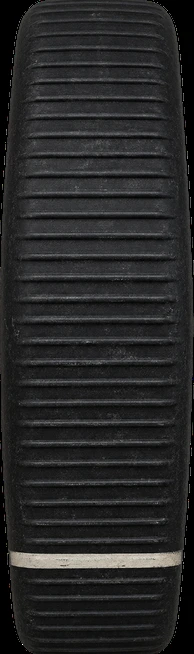
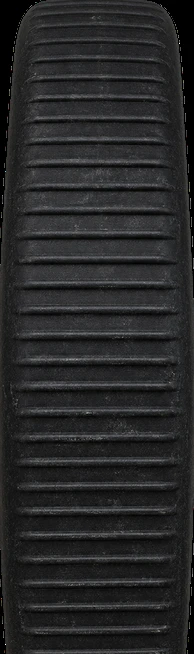
Finish grip contact, smooth wheel rotation, and match gallery aperture dimensions

diff --git a/panel-mosaic-lab/cockpit/throttle-levers.js b/panel-mosaic-lab/cockpit/throttle-levers.js
@@ -3,7 +3,7 @@
 'use strict';
 const doc=win.document;
 const STOPS=[0,25,50,75,100], NAMES=['idle','quarter','mid','three-quarter','full'];
-const CENTER=(322+437)/2, SEAM=2;
+const CENTER=(322+437)/2, SEAM=-4;
 const FULL=184, IDLE=652;
 const WHITE_WIDTH=[137,135,127,117,108];
 const positions={1:0,2:0}, controls=new Map();
@@ -43,7 +43,9 @@ function paint(engine){
  box(c.toga,buttonX-btnSize*.78,buttonY-btnSize*.78,btnSize*1.56,btnSize*1.56);
  c.toga.classList.toggle('show-recess',k>=2);
  // The grip hit area travels with the handgrip, clear of the opposite lever.
- box(c.hit,gripX-WHITE_WIDTH[k]/2,gripY-24,WHITE_WIDTH[k],48);
+ const hitWidth=WHITE_WIDTH[k]+SEAM/2;
+ const hitLeft=engine===1?CENTER-hitWidth:CENTER;
+ box(c.hit,hitLeft,gripY-24,hitWidth,48);
  c.hit.dataset.position=String(pct);c.hit.setAttribute('aria-valuenow',String(pct));
  c.hit.setAttribute('aria-valuetext',pct+' percent');
  if(c.select)c.select.value=STOPS.includes(pct)?String(pct):'';
@@ -127,5 +129,5 @@ win.addEventListener('b737:cockpit-mounted',mount);
 win.addEventListener('load',mount,{once:true});queueMicrotask(mount);
 for(const ms of [500,1800,5000])setTimeout(mount,ms);
 win.B737ThrottlePositions=Object.freeze({get:engine=>positions[engine],set:(engine,pct)=>apply(engine,Number(pct),'user'),
- mounted:()=>ready,positions:STOPS,geometry:()=>({centers:{1:CENTER-(WHITE_WIDTH[4]+SEAM)/2,2:CENTER+(WHITE_WIDTH[4]+SEAM)/2},sourceWidth:800,gripWidthNative:WHITE_WIDTH[4],fullY:FULL,idleY:IDLE,hasAddedTogaFace:false})});
+ mounted:()=>ready,positions:STOPS,geometry:()=>({centers:{1:CENTER-WHITE_WIDTH[4]/2,2:CENTER+WHITE_WIDTH[4]/2},sourceWidth:800,gripWidthNative:WHITE_WIDTH[4]-1,fullY:FULL,idleY:IDLE,hasAddedTogaFace:false})});
 })(window);

diff --git a/panel-mosaic-lab/cockpit/fire-lights-unified.css b/panel-mosaic-lab/cockpit/fire-lights-unified.css
@@ -4,9 +4,10 @@
  box-sizing:border-box;overflow:hidden;z-index:2;border:.24cqw solid #0a0b0b;border-radius:.28cqw;
  box-shadow:inset 0 0 0 .105cqw #626561,inset 0 0 0 .20cqw #272925,0 .12cqw .16cqw #000a;
  background:linear-gradient(165deg,#2e2b24,#171815 36%,#101211);color:#736450;
- font:700 .98cqw/1.03 'Roboto Condensed','Arial Narrow',Arial,sans-serif;
+ font:700 1.24cqw/1.03 'Roboto Condensed','Arial Narrow',Arial,sans-serif;
  text-align:center;letter-spacing:.025em;pointer-events:auto;cursor:pointer;touch-action:none}
 .fire-lamp span{pointer-events:none}
+.fire-lamp:is([data-fire-lamp="L_BOTTLE_DISCHARGED"],[data-fire-lamp="R_BOTTLE_DISCHARGED"]){font-size:1.04cqw}
 .fire-lamp[data-color="red"]{color:#815359}
 .fire-lamp[data-illuminated="true"]{color:#ffd36b;background:radial-gradient(ellipse,#40310f 3%,#221b0e 64%,#13120e);text-shadow:0 0 .3cqw #ffac26}
 .fire-lamp[data-color="red"][data-illuminated="true"]{color:#fff0e5;background:radial-gradient(ellipse,#b22624 5%,#5a1419 74%,#241116);text-shadow:0 0 .32cqw #ff4e38}
@@ -58,7 +59,7 @@
 .p8-lab-scenario{margin-top:.65rem;border-top:1px solid #334652;padding-top:.65rem}
 .p8-lab-scenario p{margin:.4rem 0;color:#c0d0db}
 .p8-lab-table{overflow:auto}
-.p8-lab table{width:100%;border-collapse:collapse;text-align:left;white-space:nowrap;font-variant-numeric:tabular-nums}
+.p8-lab table{width:100%;border-collapse:collapse;text-align:left;font-size:.87rem;font-variant-numeric:tabular-nums}
 .p8-lab caption{text-align:left;padding:.3rem 0;font-weight:700}
 .p8-lab th,.p8-lab td{padding:.4rem;border-bottom:1px solid #30404a}
 .p8-lab :is(#p8-lab-power,#p8-lab-bottles){font-variant-numeric:tabular-nums;color:#a9d3db;margin:.35rem 0}

diff --git a/panel-mosaic-lab/cockpit/throttle-levers.css b/panel-mosaic-lab/cockpit/throttle-levers.css
@@ -25,12 +25,12 @@
 .pedestal-trim-wheel:focus-visible{outline:1px dotted #fff}
 .pedestal-trim-plane{position:absolute;inset:0;overflow:hidden;border-radius:24% / 8%;pointer-events:none;
  background:#1f2122;box-shadow:inset 0 0 .28em #000,0 .14em .26em #0008}
-.pedestal-trim-plane::before{content:'';position:absolute;inset:0 0 -100%;
- background:url('./assets/pedestal-hardware/trim-wheel.webp?v=2') center top / 100% 50% repeat-y;
- transform:translateY(calc(var(--phase,0)*-50%))}
-.pedestal-trim-plane::after{content:'';position:absolute;inset:0;border-radius:inherit;
+.pedestal-trim-plane img{position:absolute;inset:0;display:block;width:100%;height:100%;max-width:none;object-fit:fill}
+.pedestal-trim-plane::before{content:'';position:absolute;z-index:1;left:0;right:0;height:7%;
+ top:calc(var(--phase,.82)*107% - 7%);
+ background:linear-gradient(180deg,#aeac9e,#d7d4c4 35%,#b4b0a2);box-shadow:0 1px 1px #343430}
+.pedestal-trim-plane::after{content:'';position:absolute;z-index:2;inset:0;border-radius:inherit;
  background:linear-gradient(180deg,#07090af2,transparent 17% 79%,#08090af2),linear-gradient(90deg,#090b0cc9,transparent 26% 74%,#08090ac0)}
-.pedestal-trim-plane img{display:none}
 .pedestal-trim-index{position:absolute;width:2%;height:auto!important;max-width:none;transform:translateY(-50%);pointer-events:none}
 .pedestal-trim-index[data-side="CAPT"]{left:11.1%}.pedestal-trim-index[data-side="FO"]{right:11.1%;transform:translateY(-50%) scaleX(-1)}
 .pedestal-trim-cutout{position:absolute;top:91.4%;width:6%;height:3.2%;padding:0;border:0;background:transparent;

diff --git a/panel-mosaic-lab/cockpit/stabilizer-trim-quadrant.js b/panel-mosaic-lab/cockpit/stabilizer-trim-quadrant.js
@@ -41,7 +41,7 @@ function canDrive(source,direction){
 function paint(){
  paintQueued=false;
  for(const {wheel,index,rim,sign} of wheels){
-  const phase=(units-5)*15*sign+(sign>0?.02:.62);
+  const phase=(units-5)*15*sign+(sign>0?.82:.18);
   rim.style.setProperty('--phase',String(phase-Math.floor(phase)));
   index.style.top=(indexY(units)/10)+'%';
   wheel.setAttribute('aria-valuenow',String(Math.round(units*100)/100));
@@ -128,7 +128,7 @@ function mount(){
   const wheel=doc.createElement('div'),rim=doc.createElement('div'),tread=doc.createElement('img'),index=new Image();
   wheel.className='pedestal-trim-wheel';wheel.dataset.side=side;wheel.setAttribute('role','slider');wheel.tabIndex=0;
   wheel.setAttribute('aria-label',side+' manual stabilizer trim wheel');wheel.setAttribute('aria-valuemin','0');wheel.setAttribute('aria-valuemax','17');wheel.setAttribute('aria-orientation','vertical');
-  rim.className='pedestal-trim-plane';tread.src='./assets/pedestal-hardware/trim-wheel.webp?v=2';tread.alt='';tread.draggable=false;
+  rim.className='pedestal-trim-plane';tread.src='./assets/pedestal-hardware/trim-wheel.webp?v=3';tread.alt='';tread.draggable=false;
   index.src='./assets/pedestal-hardware/trim-index.webp?v=2';index.className='pedestal-trim-index';index.dataset.side=side;index.alt='';index.draggable=false;
   rim.append(tread);wheel.append(rim);layer.append(wheel,index);wheels.push({wheel,index,rim,sign});
   wheel.onpointerdown=e=>{
